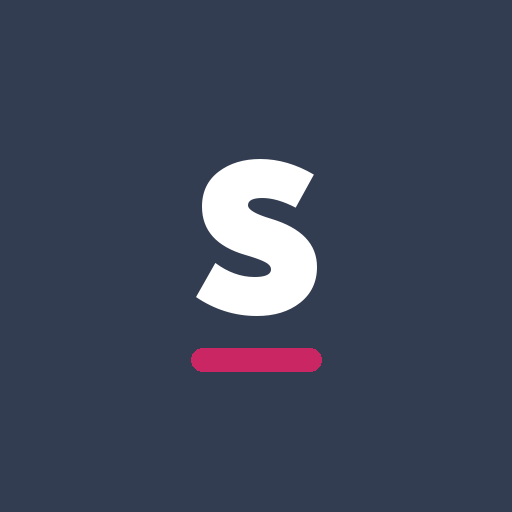
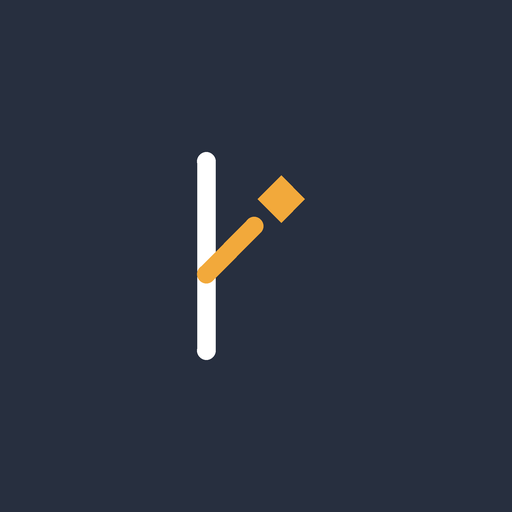
Amber accent, and a mark instead of a letter
The accent was a magenta that read as generic and sat close to the navy
base in luminance, so it never quite popped. Amber is the warm note in a
cool UI — and thematically exact for an app about finishing rather than
starting: credits rolling, a trophy, a lamp-lit evening. Chosen by
rendering the real app in four candidates rather than by argument.

The token is renamed accent, since "plum" would now be a lie in twelve
files, and a comment says what the colour is for.

The icon was a letter S I had generated as a placeholder. Sidequest is
literally the path that branches off, so the mark is that: a road that
keeps going, a branch that leaves it, and a waypoint at the end with a
deliberate gap so it reads as a destination rather than an arrowhead.
Checked at 32px, where the fork and the marker both still hold.

Drawn from primitives in the app (crisp at any size, takes its colour
from the tokens, costs no request) and rendered to PNG for the launcher
icons, including maskable variants. The OG card is rebuilt to match.

Claude-Session: https://claude.ai/code/session_012oeNhX7pg8vAKrS5pRkW55

Changed region(s): [[0.375, 0.2812, 0.625, 0.75]]

diff --git a/src/components/Mark.tsx b/src/components/Mark.tsx
@@ -1,0 +1,79 @@
+import { StyleSheet, View, type ViewStyle } from 'react-native';
+
+import { COLORS } from '@/styles/colors';
+
+/**
+ * The Sidequest mark: a path that keeps going, and the branch that leaves
+ * it for somewhere worth arriving at.
+ *
+ * Drawn from primitives rather than shipped as an asset so it stays crisp
+ * at any size, takes its colour from the tokens, and costs no request.
+ * The geometry matches the app icons exactly — see scripts/icons.
+ */
+export function Mark({ size = 22 }: { size?: number }) {
+  const stroke = size * 0.1;
+  const x = size * 0.28;
+
+  // The branch is a bar rotated about its own centre, so it is placed by
+  // the midpoint of the segment it represents rather than its corner.
+  const forkY = size * 0.58;
+  const reach = size * 0.3;
+  const half = reach / 2;
+  const dx = Math.cos(-Math.PI / 4) * half;
+  const dy = Math.sin(-Math.PI / 4) * half;
+
+  const gap = size * 0.12;
+  const tipX = x + dx * 2 + gap;
+  const tipY = forkY + dy * 2 - gap;
+  const diamond = size * 0.15;
+
+  return (
+    <View style={{ width: size, height: size }}>
+      <View
+        style={[
+          styles.piece,
+          {
+            left: x - stroke / 2,
+            top: size * 0.08,
+            width: stroke,
+            height: size * 0.84,
+            borderRadius: stroke,
+            backgroundColor: COLORS.white,
+          },
+        ]}
+      />
+      <View
+        style={[
+          styles.piece,
+          {
+            left: x + dx - half,
+            top: forkY + dy - stroke / 2,
+            width: reach,
+            height: stroke,
+            borderRadius: stroke,
+            backgroundColor: COLORS.accent,
+            transform: [{ rotate: '-45deg' }],
+          } as ViewStyle,
+        ]}
+      />
+      <View
+        style={[
+          styles.piece,
+          {
+            left: tipX - diamond / 2,
+            top: tipY - diamond / 2,
+            width: diamond,
+            height: diamond,
+            borderRadius: size * 0.02,
+            backgroundColor: COLORS.accent,
+            transform: [{ rotate: '45deg' }],
+          } as ViewStyle,
+        ]}
+      />
+    </View>
+  );
+}
+
+const styles = StyleSheet.create({
+  piece: { position: 'absolute' },
+});

diff --git a/src/app/index.tsx b/src/app/index.tsx
@@ -10,6 +10,7 @@ import {
   ActivityIndicator,
   FlatList,
   Platform,
+  Pressable,
   RefreshControl,
   StyleSheet,
   Text,
@@ -50,6 +51,7 @@ import {
   SkeletonShelf,
 } from '@/components/Skeleton';
 import { CategoryHero } from '@/components/CategoryHero';
+import { Mark } from '@/components/Mark';
 import { SurpriseButton } from '@/components/SurpriseButton';
 import { TonightCard } from '@/components/TonightCard';
 import { ProgressLine } from '@/components/ProgressLine';
@@ -548,9 +550,15 @@ export default function HomeScreen() {
             </View>
           ) : (
             <View style={styles.titleRow}>
-              <Text style={styles.wordmark} onPress={goHome}>
-                SIDEQUEST
-              </Text>
+              <Pressable
+                onPress={goHome}
+                style={styles.brand}
+                accessibilityRole="link"
+                accessibilityLabel="Sidequest home"
+              >
+                <Mark size={20} />
+                <Text style={styles.wordmark}>SIDEQUEST</Text>
+              </Pressable>
               <View style={styles.headerIcons}>
                 <Ionicons
                   name="search"
@@ -654,6 +662,7 @@ const styles = StyleSheet.create({
     zIndex: 10,
     paddingBottom: SPACING.xl,
   },
+  brand: { flexDirection: 'row', alignItems: 'center', gap: SPACING.sm },
   titleRow: {
     flexDirection: 'row',
     alignItems: 'center',

diff --git a/src/components/Sidebar.tsx b/src/components/Sidebar.tsx
@@ -12,6 +12,7 @@ import {
 import { useRouter } from 'expo-router';
 
 import { DynamicIcon, type IconType } from './DynamicIcon';
+import { Mark } from './Mark';
 import { DISCOVER, GENRES, type Section } from '@/constants/categories';
 import { COLORS } from '@/styles/colors';
 import { LAYOUT, RADIUS, SPACING } from '@/styles/theme';
@@ -95,7 +96,8 @@ export function Sidebar({ activeKey, onHome, onSelect, search }: Props) {
   const router = useRouter();
   return (
     <View style={[styles.sidebar, STICKY]}>
-      <Pressable onPress={onHome} accessibilityRole="link">
+      <Pressable onPress={onHome} accessibilityRole="link" style={styles.brand}>
+        <Mark size={22} />
         <Text style={styles.wordmark}>SIDEQUEST</Text>
       </Pressable>
       <Text style={styles.tagline}>Discover your next game</Text>
@@ -163,6 +165,7 @@ const styles = StyleSheet.create({
     borderRightWidth: StyleSheet.hairlineWidth,
     borderRightColor: 'rgba(255,255,255,0.08)',
   },
+  brand: { flexDirection: 'row', alignItems: 'center', gap: SPACING.sm },
   wordmark: {
     fontFamily: 'Noah-Black',
     fontSize: 22,

diff --git a/src/app/plan.tsx b/src/app/plan.tsx
@@ -609,7 +609,7 @@ const styles = StyleSheet.create({
     left: 0,
     right: 0,
     height: 3,
-    backgroundColor: COLORS.plum,
+    backgroundColor: COLORS.accent,
   },
   verdictTitle: {
     fontFamily: 'Noah-Black',
@@ -664,7 +664,7 @@ const styles = StyleSheet.create({
   inlineCaret: {
     fontFamily: 'Noah-Bold',
     fontSize: 11,
-    color: COLORS.plum,
+    color: COLORS.accent,
   },
   steamLink: {
     fontFamily: 'Noah-Bold',
@@ -785,7 +785,7 @@ const styles = StyleSheet.create({
   questBarFill: {
     height: '100%',
     borderRadius: 2,
-    backgroundColor: COLORS.plum,
+    backgroundColor: COLORS.accent,
   },
   questMeta: {
     fontFamily: 'Noah-Regular',
@@ -797,7 +797,7 @@ const styles = StyleSheet.create({
   rowAction: {
     fontFamily: 'Noah-Bold',
     fontSize: 11.5,
-    color: COLORS.plum,
+    color: COLORS.accent,
   },
   questWhen: { alignItems: 'flex-end', gap: 1 },
   questDate: {

diff --git a/src/components/AppHeader.tsx b/src/components/AppHeader.tsx
@@ -10,6 +10,7 @@ import {
   type ViewStyle,
 } from 'react-native';
 
+import { Mark } from './Mark';
 import { COLORS } from '@/styles/colors';
 import { LAYOUT, SPACING } from '@/styles/theme';
 
@@ -74,7 +75,10 @@ export function AppHeader({ immersive = false }: Props) {
           accessibilityRole="link"
           accessibilityLabel="Sidequest home"
         >
-          <Text style={styles.wordmark}>SIDEQUEST</Text>
+          <View style={styles.brand}>
+            <Mark size={18} />
+            <Text style={styles.wordmark}>SIDEQUEST</Text>
+          </View>
         </Pressable>
         <View style={styles.nav}>
           {NAV.map((link) => {
@@ -145,6 +149,7 @@ const styles = StyleSheet.create({
     paddingHorizontal: SPACING.xl,
     height: 58,
   },
+  brand: { flexDirection: 'row', alignItems: 'center', gap: SPACING.sm },
   wordmark: {
     fontFamily: 'Noah-Black',
     fontSize: 16,

diff --git a/src/components/TonightCard.tsx b/src/components/TonightCard.tsx
@@ -81,7 +81,7 @@ export function TonightCard() {
       />
       <View style={styles.body}>
         <View style={styles.eyebrowRow}>
-          <Ionicons name="moon" size={12} color={COLORS.plum} />
+          <Ionicons name="moon" size={12} color={COLORS.accent} />
           <Text style={styles.eyebrow}>TONIGHT</Text>
         </View>
         <Text style={styles.title} numberOfLines={2}>
@@ -128,7 +128,7 @@ const styles = StyleSheet.create({
     fontFamily: 'Noah-Bold',
     fontSize: 10,
     letterSpacing: 1.4,
-    color: COLORS.plum,
+    color: COLORS.accent,
   },
   title: {
     fontFamily: 'Noah-Black',

diff --git a/src/components/FilterBar.tsx b/src/components/FilterBar.tsx
@@ -210,7 +210,7 @@ export function FilterBar({ value, onChange, disabled = false }: Props) {
           accessibilityLabel={`Clear ${active} filters`}
           style={styles.clear}
         >
-          <Ionicons name="close" size={14} color={COLORS.plum} />
+          <Ionicons name="close" size={14} color={COLORS.accent} />
           <Text style={styles.clearText}>Clear {active}</Text>
         </Pressable>
       )}
@@ -290,6 +290,6 @@ const styles = StyleSheet.create({
   clearText: {
     fontFamily: 'Noah-Bold',
     fontSize: 12.5,
-    color: COLORS.plum,
+    color: COLORS.accent,
   },
 });

diff --git a/src/components/RouteError.tsx b/src/components/RouteError.tsx
@@ -28,7 +28,11 @@ export function RouteError({ error, retry }: Props) {
     <Textured style={styles.screen}>
       <View style={styles.card}>
         <View style={styles.iconRing}>
-          <Ionicons name="alert-circle-outline" size={26} color={COLORS.plum} />
+          <Ionicons
+            name="alert-circle-outline"
+            size={26}
+            color={COLORS.accent}
+          />
         </View>
         <Text style={styles.title}>This screen hit a snag</Text>
         <Text style={styles.detail}>

diff --git a/src/styles/colors.ts b/src/styles/colors.ts
@@ -1,6 +1,11 @@
 export const COLORS = {
   white: '#FFFFFF',
-  plum: '#CB2664',
+  /**
+   * The accent. Amber reads as credits rolling and lamp-lit evenings —
+   * the warm note in a cool UI, and thematically exact for an app about
+   * finishing things rather than starting them.
+   */
+  accent: '#F2A93B',
   blue: '#1E69E1',
   lightGrey: '#D8DAE4',
   // 4.6:1 on darkGrey, AA for body text on every surface.

diff --git a/src/components/GameTile.tsx b/src/components/GameTile.tsx
@@ -135,7 +135,7 @@ export function GameTile({ game, width, badge }: Props) {
               <Ionicons
                 name={saved ? 'bookmark' : 'bookmark-outline'}
                 size={15}
-                color={saved ? COLORS.plum : COLORS.white}
+                color={saved ? COLORS.accent : COLORS.white}
               />
             </Pressable>
           )}

diff --git a/src/app/game/[id].tsx b/src/app/game/[id].tsx
@@ -613,7 +613,7 @@ const styles = StyleSheet.create({
     fontSize: 16,
     color: COLORS.white,
   },
-  statFlag: { color: COLORS.plum },
+  statFlag: { color: COLORS.accent },
   statPencil: { fontSize: 11, color: COLORS.mediumGrey },
   statLabel: {
     fontFamily: 'Noah-Bold',

diff --git a/src/app/library.tsx b/src/app/library.tsx
@@ -356,7 +356,7 @@ const styles = StyleSheet.create({
     fontSize: 19,
     color: COLORS.white,
   },
-  statValueAccent: { color: COLORS.plum },
+  statValueAccent: { color: COLORS.accent },
   statLabel: {
     fontFamily: 'Noah-Bold',
     fontSize: 9.5,
